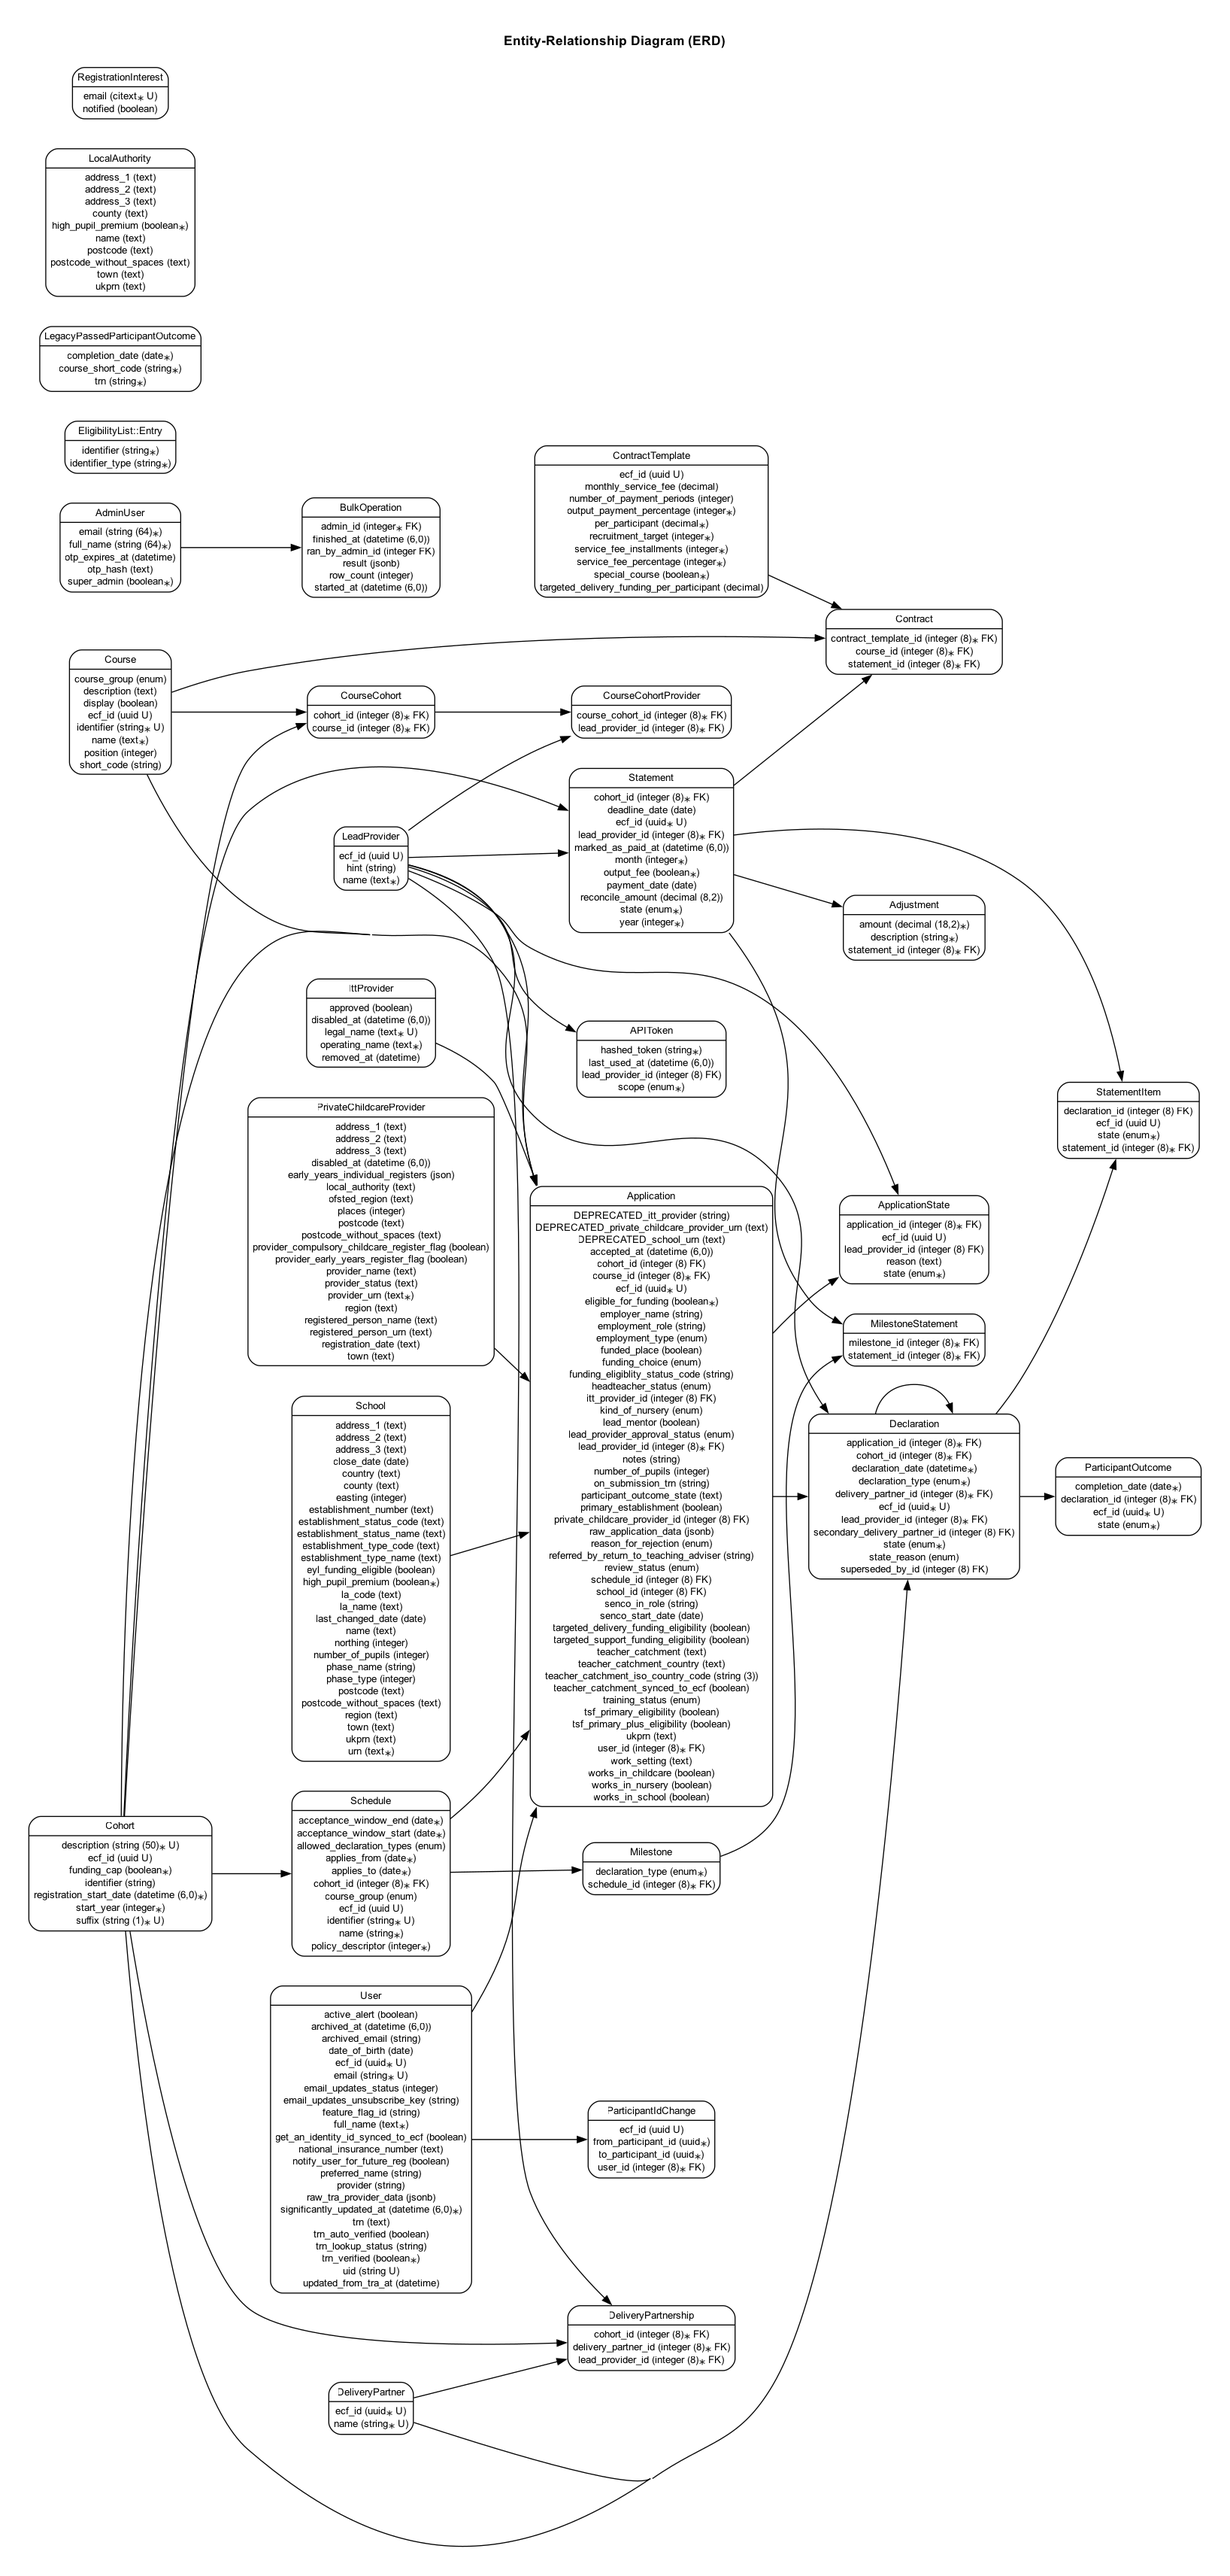
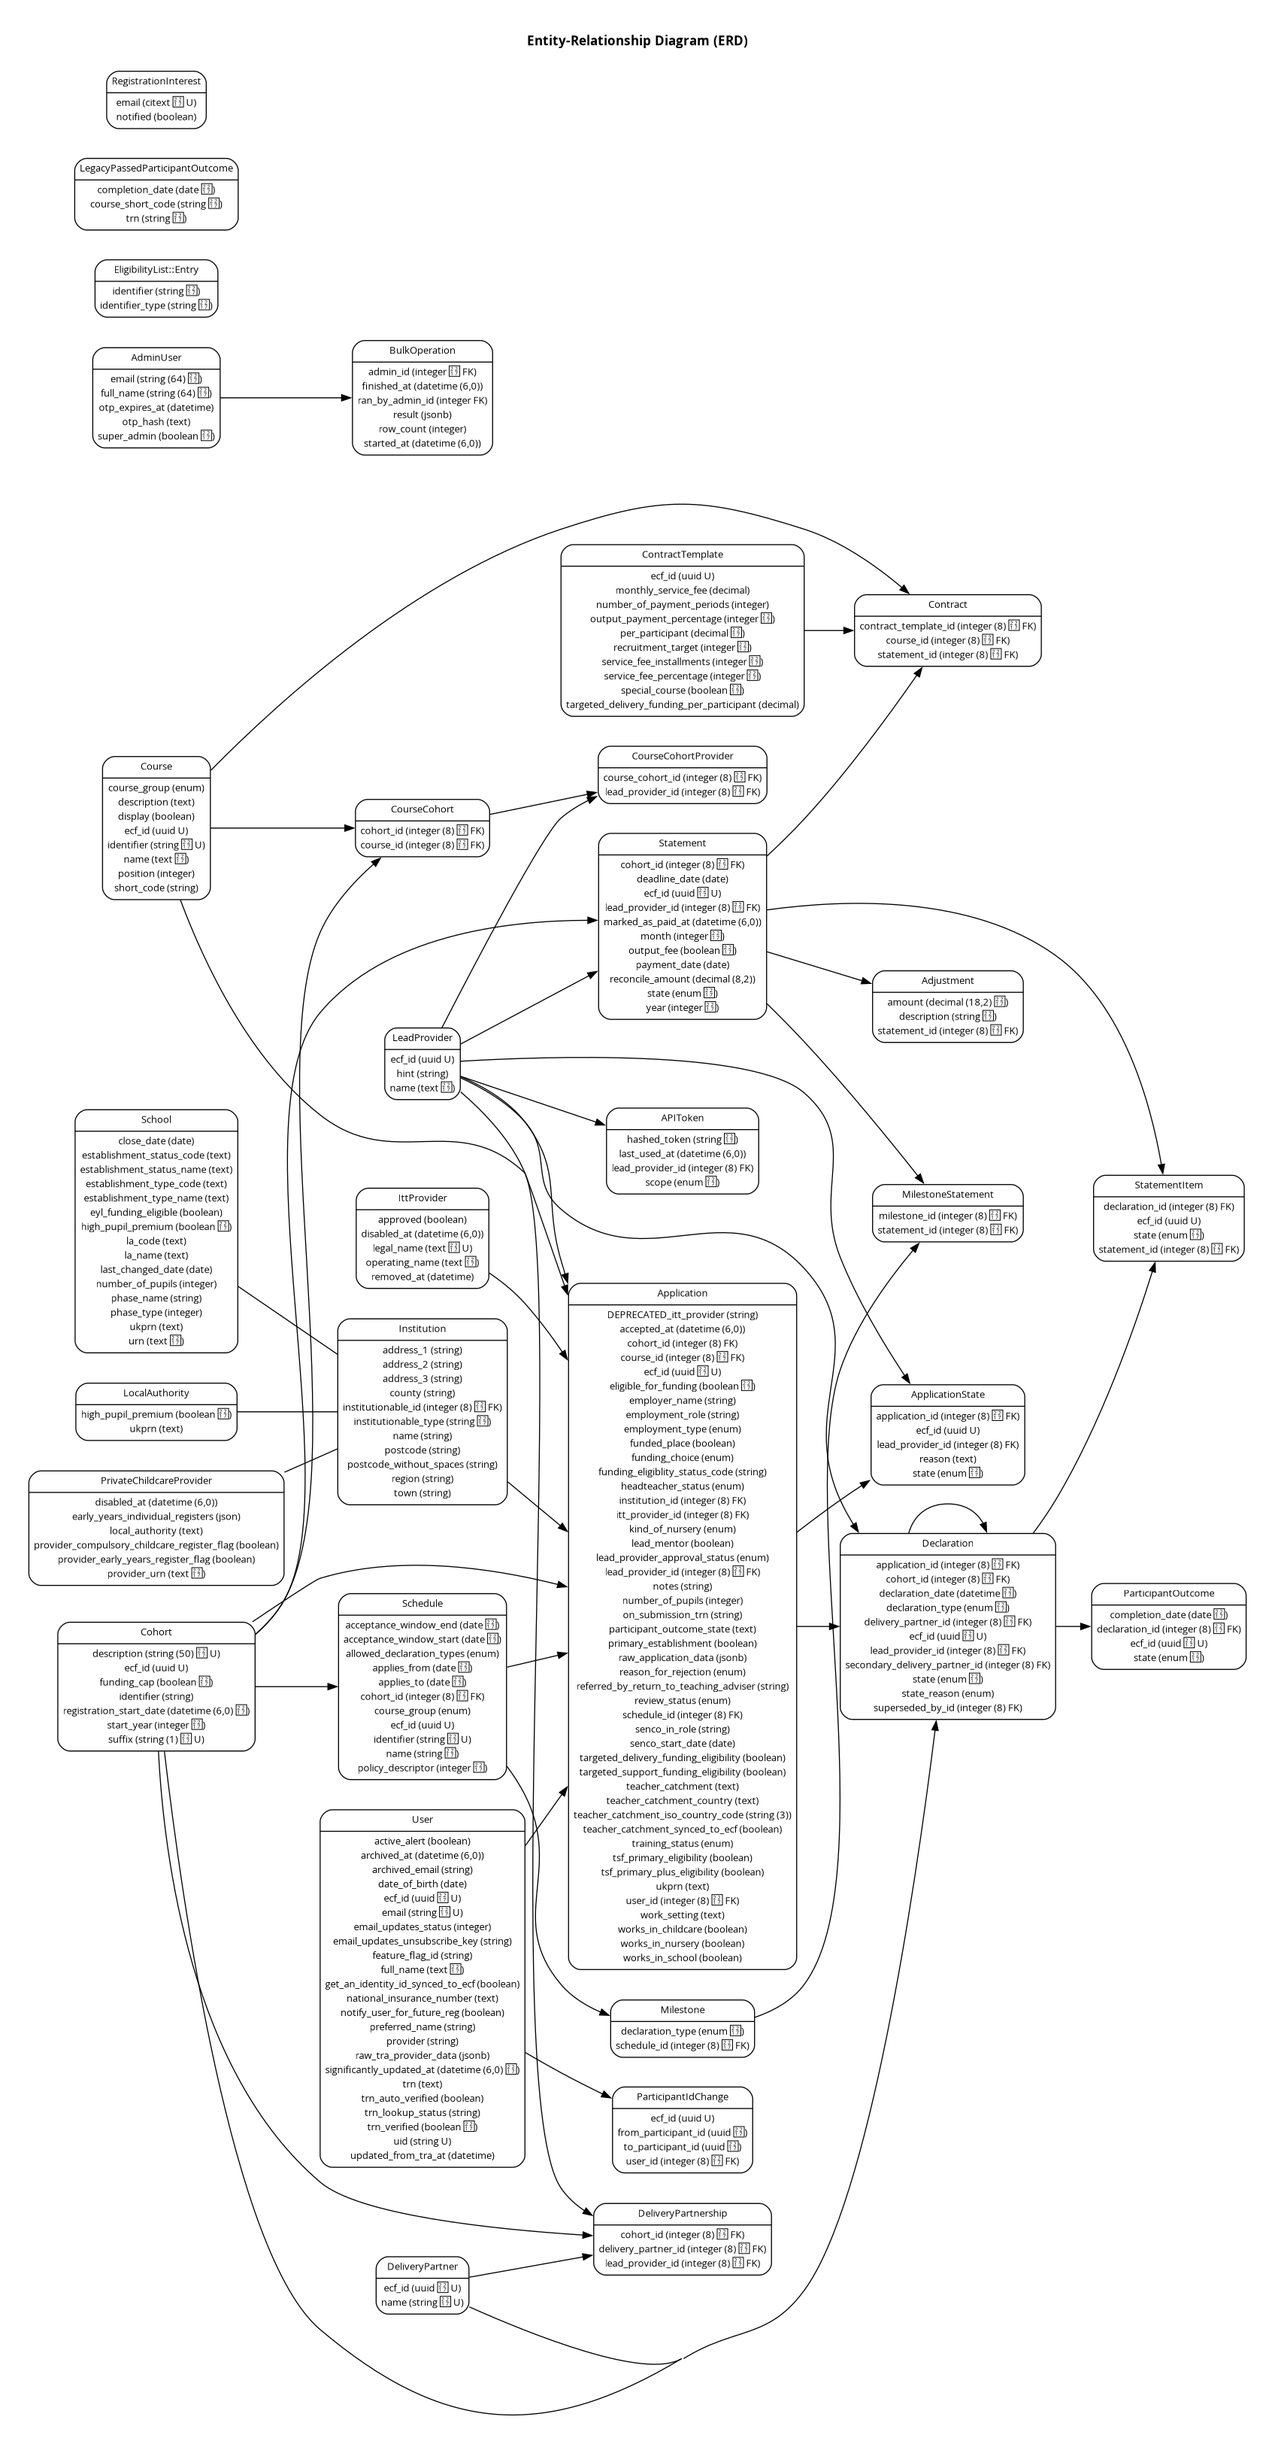
Drop legacy columns
- school_id
- private_childcare_provider_id
- DEPRECATED_school_urn
- DEPRECATED_private_childcare_provider_urn

diff --git a/db/schema.rb b/db/schema.rb
@@ -10,7 +10,7 @@
 #
 # It's strongly recommended that you check this file into your version control system.
 
-ActiveRecord::Schema[8.1].define(version: 2026_03_09_150501) do
+ActiveRecord::Schema[8.1].define(version: 2026_03_10_130300) do
   # These are extensions that must be enabled in order to support this database
   enable_extension "btree_gin"
   enable_extension "citext"
@@ -112,8 +112,6 @@ ActiveRecord::Schema[8.1].define(version: 2026_03_09_150501) do
   create_table "applications", force: :cascade do |t|
     t.integer "DEPRECATED_cohort"
     t.string "DEPRECATED_itt_provider"
-    t.text "DEPRECATED_private_childcare_provider_urn"
-    t.text "DEPRECATED_school_urn"
     t.datetime "accepted_at"
     t.bigint "cohort_id"
     t.bigint "course_id", null: false
@@ -138,13 +136,11 @@ ActiveRecord::Schema[8.1].define(version: 2026_03_09_150501) do
     t.string "on_submission_trn"
     t.text "participant_outcome_state"
     t.boolean "primary_establishment", default: false
-    t.bigint "private_childcare_provider_id"
     t.jsonb "raw_application_data", default: {}
     t.enum "reason_for_rejection", enum_type: "reasons_for_rejection"
     t.string "referred_by_return_to_teaching_adviser"
     t.enum "review_status", enum_type: "review_statuses"
     t.bigint "schedule_id"
-    t.bigint "school_id"
     t.string "senco_in_role"
     t.date "senco_start_date"
     t.boolean "targeted_delivery_funding_eligibility", default: false
@@ -170,9 +166,7 @@ ActiveRecord::Schema[8.1].define(version: 2026_03_09_150501) do
     t.index ["itt_provider_id"], name: "index_applications_on_itt_provider_id"
     t.index ["lead_provider_approval_status", "lead_provider_id"], name: "idx_on_lead_provider_approval_status_lead_provider__299e5bac06"
     t.index ["lead_provider_id"], name: "index_applications_on_lead_provider_id"
-    t.index ["private_childcare_provider_id"], name: "index_applications_on_private_childcare_provider_id"
     t.index ["schedule_id"], name: "index_applications_on_schedule_id"
-    t.index ["school_id"], name: "index_applications_on_school_id"
     t.index ["user_id", "cohort_id", "course_id"], name: "index_applications_on_user_id_and_cohort_id_and_course_id", unique: true, where: "(lead_provider_approval_status <> 'rejected'::lead_provider_approval_statuses)"
     t.index ["user_id"], name: "index_applications_on_user_id"
   end
@@ -664,9 +658,7 @@ ActiveRecord::Schema[8.1].define(version: 2026_03_09_150501) do
   add_foreign_key "applications", "institutions"
   add_foreign_key "applications", "itt_providers"
   add_foreign_key "applications", "lead_providers"
-  add_foreign_key "applications", "private_childcare_providers"
   add_foreign_key "applications", "schedules"
-  add_foreign_key "applications", "schools"
   add_foreign_key "applications", "users"
   add_foreign_key "contracts", "contract_templates"
   add_foreign_key "contracts", "courses"

diff --git a/db/migrate/20260310130300_remove_legacy_institution_columns_from_applications.rb b/db/migrate/20260310130300_remove_legacy_institution_columns_from_applications.rb
@@ -1,0 +1,10 @@
+class RemoveLegacyInstitutionColumnsFromApplications < ActiveRecord::Migration[8.1]
+  def change
+    safety_assured do
+      remove_column :applications, :school_id, :bigint
+      remove_column :applications, :private_childcare_provider_id, :bigint
+      remove_column :applications, :DEPRECATED_school_urn, :string
+      remove_column :applications, :DEPRECATED_private_childcare_provider_urn, :string
+    end
+  end
+end
